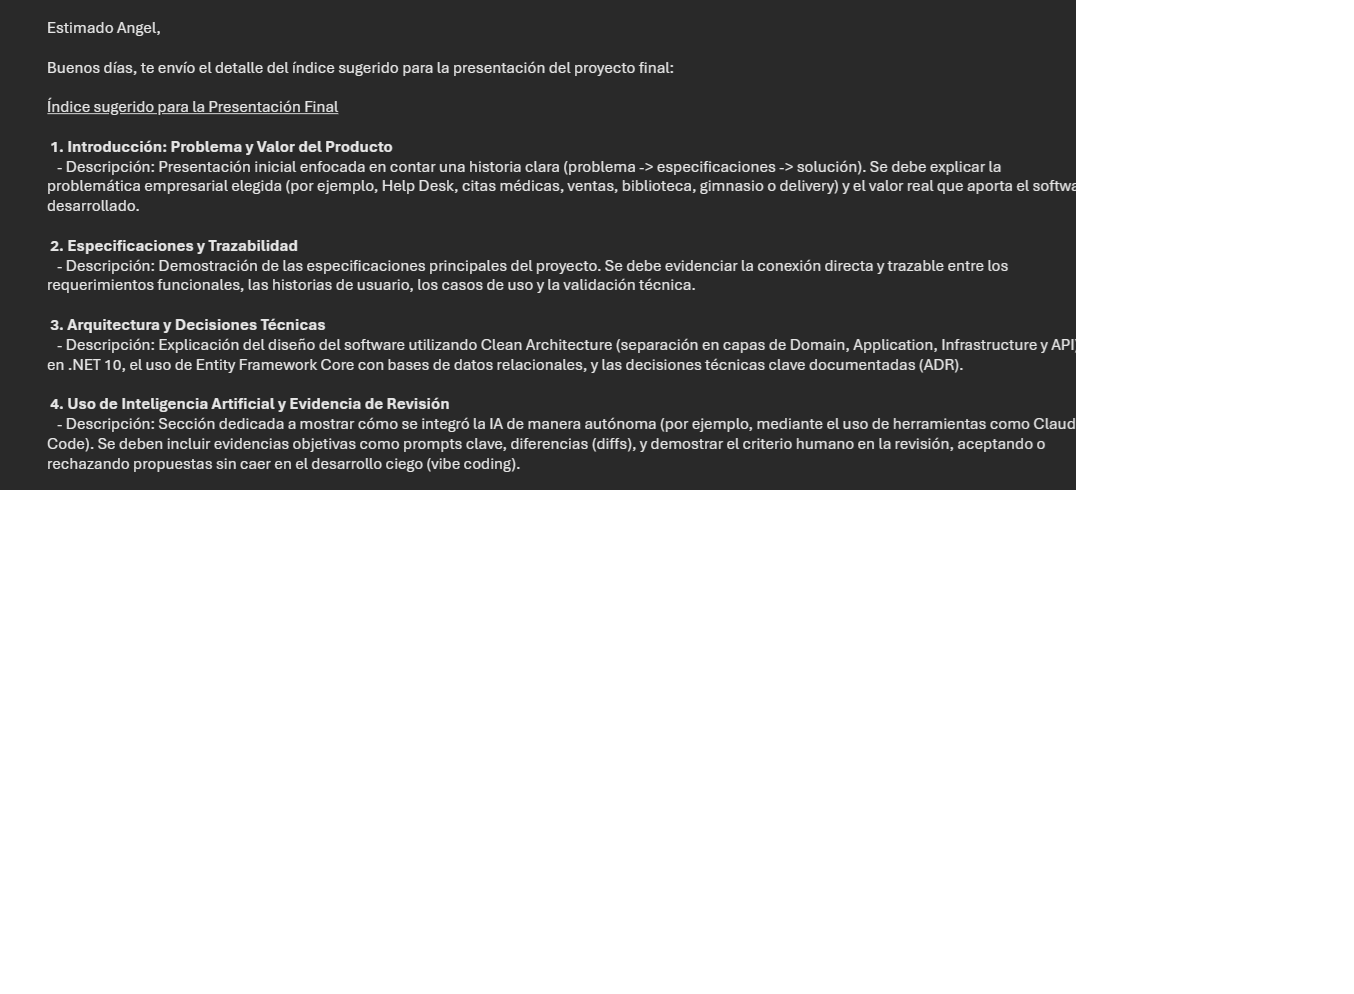
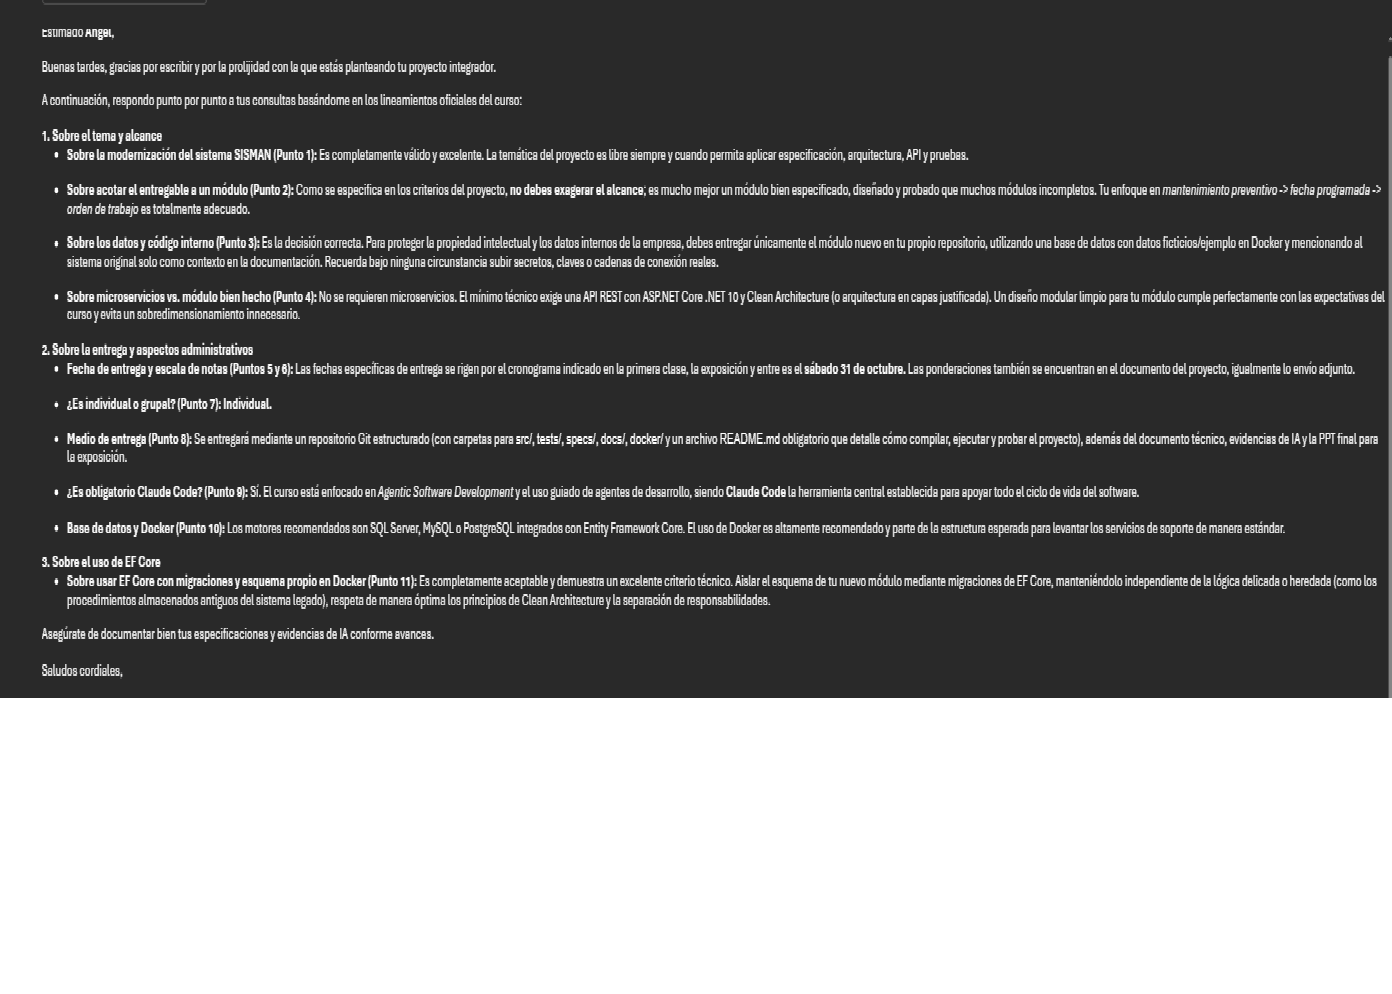
docs(ia): captura 09 con la respuesta del instructor del 24/10 y captura 03 sin barra del navegador
La evidencia 016 enlaza la captura 09 y registra el cotejo de su tabla con
el mensaje original: resume con fidelidad; los puntos 3 y 11 tambien
mencionan Docker.

diff --git a/docs/ia/016-respuesta-del-instructor.md b/docs/ia/016-respuesta-del-instructor.md
@@ -40,10 +40,12 @@ La recomendación final del instructor fue documentar bien las especificaciones 
 ## Revisión humana
 
 - Se cruzó cada fila con `Requisitos-para-aprobar.md` y con la estructura de entrega que pidió el instructor. La única diferencia con esa estructura es la carpeta `docker/`, ausente por decisión.
-- La columna «Respuesta del instructor» resume el mensaje recibido; la columna «Efecto en el proyecto» es interpretación del asistente. **Pendiente del responsable:** confirmar que la primera columna reproduce fielmente el mensaje del instructor.
+- La columna «Respuesta del instructor» resume el mensaje recibido; la columna «Efecto en el proyecto» es interpretación del asistente. **Cotejada con el mensaje original el 2026-10-28** (captura 09): la primera columna lo resume con fidelidad. Única omisión: además del punto 10, los puntos 3 («base de datos con datos ficticios/ejemplo en Docker») y 11 («esquema propio en Docker») también mencionan Docker; no cambia la decisión del ADR-007.
 - Las preguntas 3 y 11 de la consulta presuponían Docker. Se dejan como se enviaron, porque documentan lo que se preguntó.
 - Riesgo abierto: si el instructor exige `docker/` al evaluar, hay que revisar el ADR-007.
 
 ## Captura
 
-Pendiente (recomendada): captura del mensaje original del instructor, si existe, en `docs/ia/capturas/`. Es la mejor prueba del contenido de la respuesta. Tape antes cualquier dato personal que no haga falta.
+![Respuesta del instructor, puntos 1 a 11](capturas/09-mensaje-instructor.png)
+
+`capturas/09-mensaje-instructor.png` (2026-10-28): mensaje original del instructor con las respuestas a los puntos 1 a 11. El responsable quitó los datos personales antes de guardarla.

diff --git a/docs/ia/resumen.md b/docs/ia/resumen.md
@@ -38,4 +38,4 @@ Análisis de un sistema grande en poco tiempo, comparación automática de respu
 3. Las decisiones destructivas (reescribir el historial) se piden, no se toman (004).
 4. Añadir archivos por nombre, no por carpeta (006).
 
-*Capturas en `capturas/` (2026-10-27): 01 pruebas (121 en verde), 02 Swagger, 03 y 06 planning, 04 lista de MP del planificador, 05 validación al editar, 07 sesión del especialista y 08 árbol sin Docker. 2026-10-28: 09 mensaje del instructor con el índice sugerido para la presentación y 03 reemplazada. Pendiente: entradas por cada tarea de construcción.*
+*Capturas en `capturas/` (2026-10-27): 01 pruebas (121 en verde), 02 Swagger, 03 y 06 planning, 04 lista de MP del planificador, 05 validación al editar, 07 sesión del especialista y 08 árbol sin Docker. 2026-10-28: 09 respuesta del instructor del 24/10 (evidencia 016) y 03 sin la barra del navegador. Pendiente: entradas por cada tarea de construcción.*
